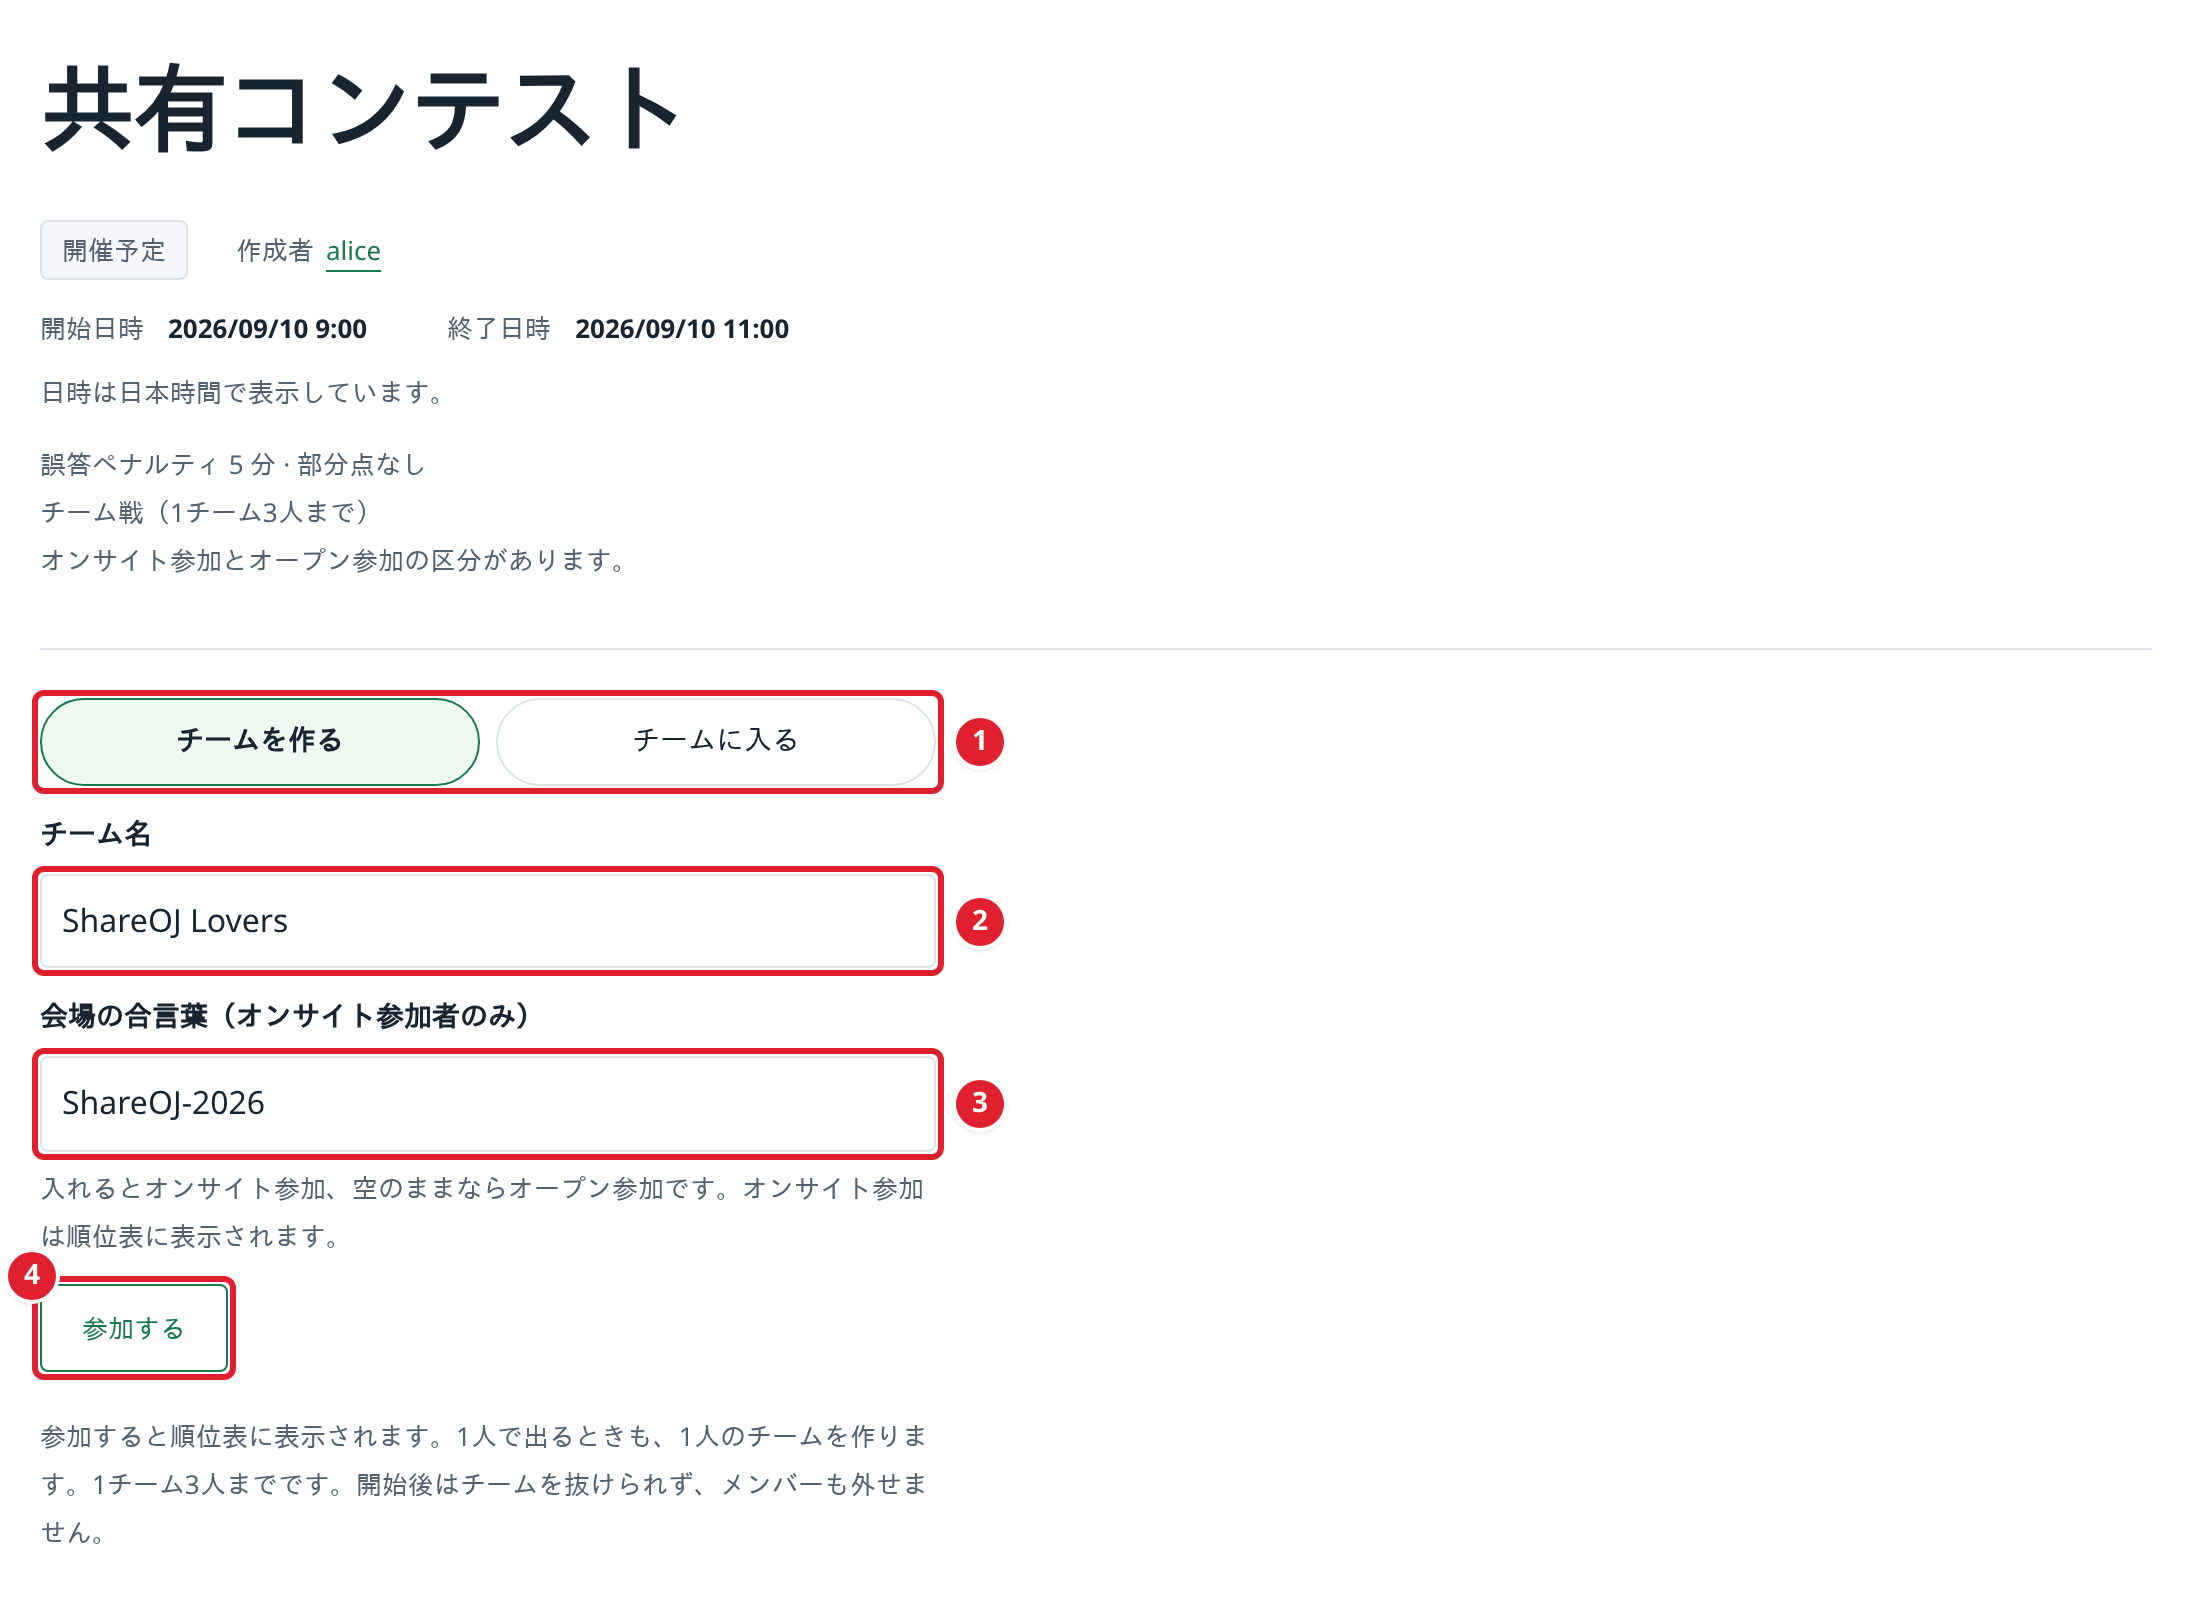
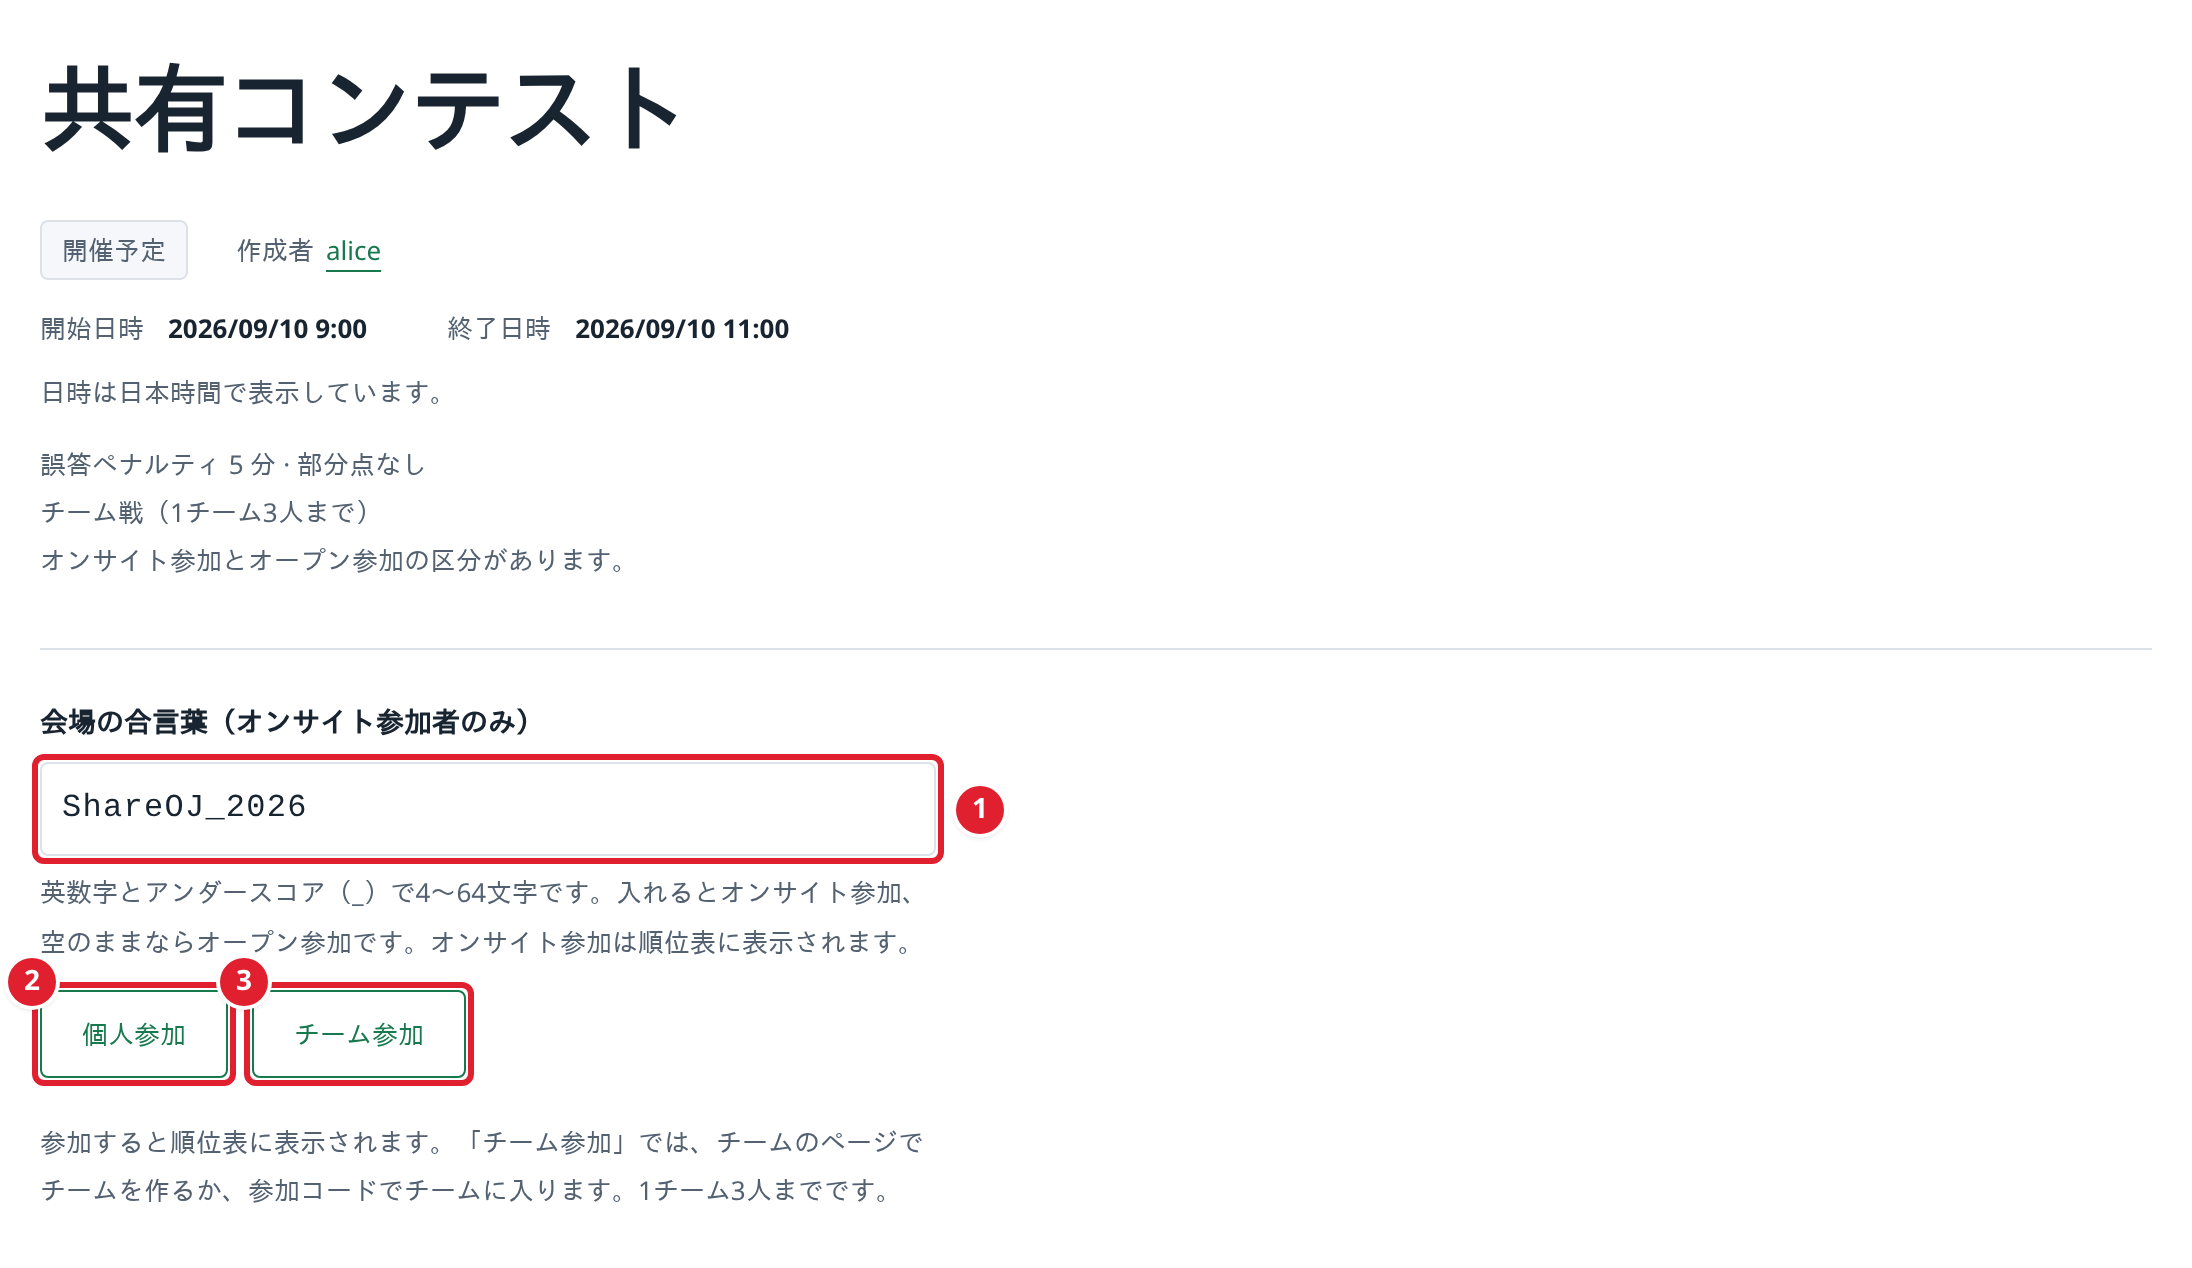
docs: ガイドにチーム戦の「個人参加」と「チーム参加」、開始前だけの切り替え、会場の合言葉の文字、オンサイトへの一方向の切り替えを書き、参加欄の写真を撮り直す

Changed region(s): [[0.0, 0.3998, 0.4653, 0.9535], [0.0, 0.0308, 0.3723, 0.3691], [0.2172, 0.1845, 0.3723, 0.2153]]

diff --git a/web/docs-screenshots/guides.spec.ts b/web/docs-screenshots/guides.spec.ts
@@ -234,7 +234,7 @@ test('generator and checker', async ({ page }) => {
 test('contest participation', async ({ page }) => {
   // Tall enough that the fixed contest clock stays below the form.
   await page.setViewportSize({ width: 1280, height: 1400 })
-  // The guide shows a team contest with an onsite division, which names every field (ADR 0024).
+  // The guide shows a team contest with an onsite division, which offers every choice (ADR 0024).
   const contestId = '99999999-9999-4999-8999-999999999999'
   await page.route(`**/api/contests/${contestId}`, async route => {
     const response = await route.fetch()
@@ -244,17 +244,16 @@ test('contest participation', async ({ page }) => {
   await page.goto(`/contests/${shortId(contestId)}?view=standings`, { waitUntil: 'networkidle' })
   await page.getByRole('button', { name: '今すぐ更新' }).click()
   await page.getByRole('navigation', { name: 'コンテストメニュー' }).getByRole('link', { name: '概要', exact: true }).click()
-  await page.getByLabel('チーム名', { exact: true }).fill('ShareOJ Lovers')
-  await page.getByLabel('会場の合言葉（オンサイト参加者のみ）', { exact: true }).fill('ShareOJ-2026')
+  const passphrase = page.getByLabel('会場の合言葉（オンサイト参加者のみ）', { exact: true })
+  await passphrase.fill('ShareOJ_2026')
   await page.evaluate(() => (document.activeElement as HTMLElement | null)?.blur())
-  const join = page.getByRole('button', { name: '参加する' })
+  const area = page.locator('.contest-participation')
   await annotate(page, [
-    { target: page.getByRole('group', { name: '参加のしかた' }), badge: 'right' },
-    { target: page.getByLabel('チーム名', { exact: true }), badge: 'right' },
-    { target: page.getByLabel('会場の合言葉（オンサイト参加者のみ）', { exact: true }), badge: 'right' },
-    join,
+    { target: passphrase, badge: 'right' },
+    area.getByRole('button', { name: '個人参加', exact: true }),
+    area.getByRole('link', { name: 'チーム参加', exact: true }),
   ])
-  await shoot(page, 'contest-join', [page.getByRole('heading', { level: 1 }), join.locator('..')])
+  await shoot(page, 'contest-join', [page.getByRole('heading', { level: 1 }), area])
 })
 
 test('difficulty vote', async ({ page }) => {

diff --git a/web/app/content/docs/contest-rules.md b/web/app/content/docs/contest-rules.md
@@ -1,17 +1,18 @@
 ## 参加と開催時間 {#participation}
 
-![チーム戦のコンテストの参加欄。①チームを作るかチームに入るか、②チーム名、③会場の合言葉、④参加する](/images/docs/contest-join.png)
+![チーム戦のコンテストの参加欄。①会場の合言葉、②個人参加、③チーム参加](/images/docs/contest-join.png)
 
-ログイン後、開始前または開催中に④「参加する」を押すと参加登録できます。
+ログイン後、開始前または開催中に「参加する」を押すと参加登録できます。
 登録した時点で、未提出でも0点で順位表に表示されます。
 開催中の提出には参加登録が必要です。
 終了後は参加登録できませんが、練習として提出できます。
 
-チーム戦では、①で「チームを作る」を選んで②にチーム名を入れるか、「チームに入る」を選んでメンバーから聞いた参加コードを入れます。
-1人で出るときも1人のチームを作ります。
-開始後はチームを抜けられず、メンバーも外せません。
+チーム戦では、②「個人参加」で1人で参加するか、③「チーム参加」で移るチームのページで、チームを作るか、メンバーから聞いた参加コードでチームに入ります。
+個人参加した人も、開始前ならチームのページでチームに切り替えられます。
+開始後は、個人参加からチームに切り替えることも、チームを抜けることも、メンバーを外すこともできません。
 
-オンサイト区分があるコンテストでは、会場で配られた③「会場の合言葉」を入れるとオンサイト参加、空のままならオープン参加になります。
+オンサイト区分があるコンテストでは、会場で配られた①「会場の合言葉」を入れるとオンサイト参加、空のままならオープン参加になります。
+会場の合言葉は英数字とアンダースコア（_）で、大文字と小文字を区別します。
 オンサイト参加は順位表に表示され、順位表と提出一覧でオンサイト参加だけに絞り込めます。
 
 公式順位に反映されるのは、コンテスト内の問題ページから、開催時間中に受け付けた提出です。
@@ -24,6 +25,7 @@
 部分点はありません。
 
 チーム戦では、メンバー全員の提出をまとめて、1人分と同じ規則で得点と時間を計算します。
+個人参加の人は、チームと同じ順位表に1人で並びます。
 
 順位は合計得点の高い順に決まります。
 同点の場合は、開始から最後に得点した提出を受け付けるまでの時間に誤答ペナルティを加えた時間が短い方が上位で、これも同じなら同順位です。

diff --git a/web/app/content/docs/hosting-contests.md b/web/app/content/docs/hosting-contests.md
@@ -22,8 +22,9 @@
 ③「期間・ペナルティ」では、開始日時、コンテスト時間、誤答ペナルティ（0〜1440分）を設定します。
 「順位表の凍結を行う」をオンにすると、終了何分前から順位表を凍結するかも設定できます。
 ④「参加形式」では、個人戦かチーム戦かを選びます。
+チーム戦でも、参加者はチームを作らずに個人で参加できます。
 チーム戦では「人数の上限を設ける」をオンにすると、1チームの人数を2〜50人に絞れます。
-「オンサイト区分を設ける」をオンにすると、会場の参加者に配る合言葉を設定できます。
+「オンサイト区分を設ける」をオンにすると、会場の参加者に配る合言葉を、英数字とアンダースコア（_）の4〜64文字で設定できます。
 開始日時は使っている端末のタイムゾーンで入力し、公開されるページでは日本時間で表示します。
 
 編集画面は自動では保存しないので、⑥「保存」で保存してください。
@@ -46,7 +47,8 @@
 開始前なら、公開したあとでもすべての設定を変更できます。
 ただし、参加登録があると、個人戦とチーム戦は切り替えられません。
 開始後は、問題の組み合わせ、配点、開催期間、ペナルティ、凍結、参加形式を変更できません。
-会場の合言葉は終了まで、参加者のオンサイトとオープンの区分とチーム名は結果が確定するまで、コンテストのページの「参加者の管理」で変更できます。
+会場の合言葉は終了まで、チーム名は結果が確定するまで、コンテストのページの「参加者の管理」で変更できます。
+オープン参加の人とチームも、結果が確定するまでそこでオンサイト参加にできますが、オープン参加には戻せません。
 
 問題の内容は、開始後も作問画面で「保存」すると反映し、そのあとに受け付けた提出から新しい内容で採点します。
 受け付け済みの提出の結果を直すには、[リジャッジ](/docs/authoring#rejudge)してください。

diff --git a/web/app/content/docs/api.md b/web/app/content/docs/api.md
@@ -30,8 +30,9 @@ curl https://api.share-oj.net/problems
 | `/users/{handle}` | 公開プロフィール |
 | `/runtimes` | 提出に使える言語 |
 
-チーム戦の順位表は、行がチームになります。
-`handle` は空文字なので、`team.id` で行を区別してください。
+チーム戦の順位表には、チームの行と個人参加の行が並びます。
+チームの行は `handle` が空文字なので、`team.id` で区別してください。
+個人参加の行は、`team` が `null` です。
 順位表と、コンテストの提出の一覧（`/contests/{id}/submissions` など）は、`scope=onsite` を付けると、オンサイト参加の行と提出だけを返します。
 
 すべてのエンドポイントと応答の形式は、仕様書で確認してください。
